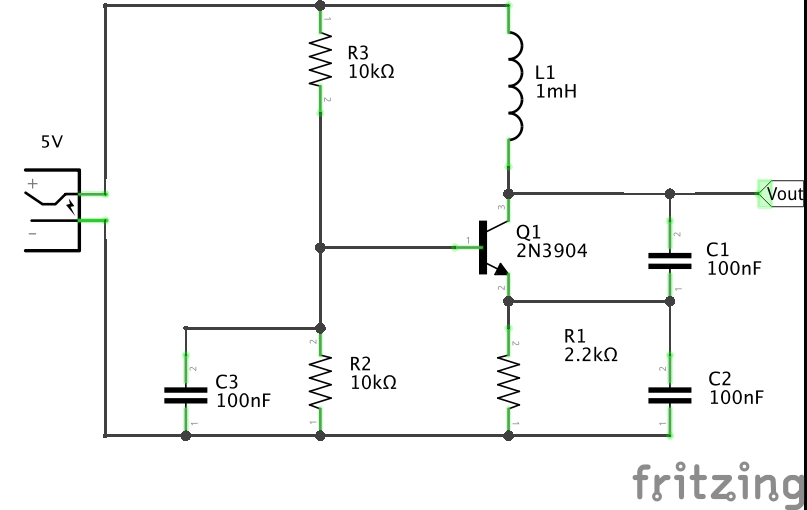
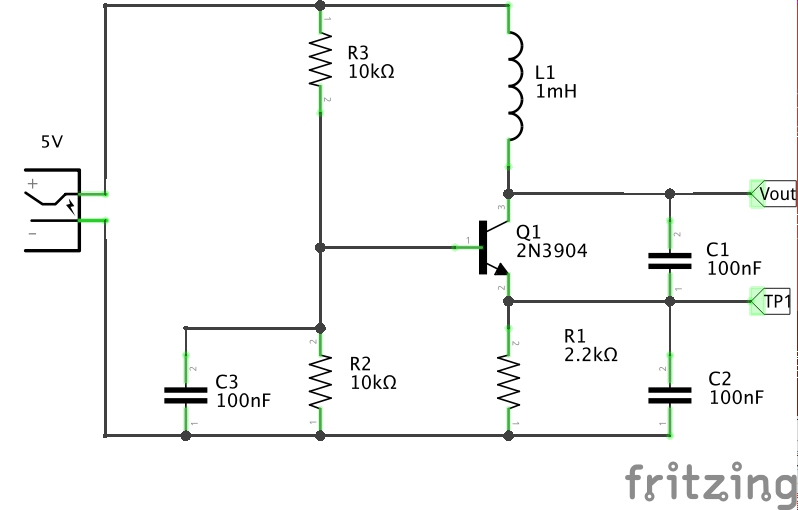
[ColpittsOscillator] add protoboard build

diff --git a/Electronics101/ColpittsOscillator/README.md b/Electronics101/ColpittsOscillator/README.md
@@ -13,9 +13,31 @@ is taken from the midpoint of the two capacitors.
 With C1,C2=100nF and L1=1mH, I should expect oscillation at around
 [22.5kHz](http://www.wolframalpha.com/input/?i=1%2F%282%CF%80+*sqrt%281mH+*+100nF+*+100nF%2F%28100nF+%2B+100nF%29%29%29), however on my first breadboard build I'm getting around 33kHz:
 
-![scope_1](./assets/scope_1.gif?raw=true)
+![breadboard_ac_coupled](./assets/breadboard_ac_coupled.gif?raw=true)
 
-So more experiements required .. I think next I'll put this on a protoboard and use some better quality capacitors.
+So more experiments required..
+
+### A Protoboard Build
+
+![Protoboard Build](./assets/ColpittsOscillator_protoboard.jpg?raw=true)
+
+Putting the circuit on a protoboard and using some better quality capacitors makes all the difference!
+
+I'm seeing an almost perfect 22.9kHz compared to the theoretical [22.5kHz](http://www.wolframalpha.com/input/?i=1%2F%282%CF%80+*sqrt%281mH+*+100nF+*+100nF%2F%28100nF+%2B+100nF%29%29%29).
+
+Here's an AC plot showing Vout on CH1, and TP1 on CH2. Some things to note:
+* there's distortion at the lower end of the Vout cycle; I suspect shifting the bias point of the transistor may help
+* an almost perfect sine at TP1 (midpoint of the capacitor bridge/transistor emitter)
+* 4.2V swing on Vout - not bad for a 5v supply
+* 2V swing on TP1
+
+![protoboard_ac_coupled](./assets/protoboard_ac_coupled.gif?raw=true)
+
+Here's the DC-coupled plot, with both channels shifted down -5V
+* Vout is oscillating around 5V
+* TP1 oscillates ~2.8V
+
+![protoboard_dc_coupled](./assets/protoboard_dc_coupled.gif?raw=true)
 
 ## Construction
 
@@ -23,7 +45,9 @@ So more experiements required .. I think next I'll put this on a protoboard and 
 
 ![The Schematic](./assets/ColpittsOscillator_schematic.jpg?raw=true)
 
-![The Build](./assets/ColpittsOscillator_build.jpg?raw=true)
+![Breadboard Build](./assets/ColpittsOscillator_build.jpg?raw=true)
+
+![Protoboard Build](./assets/ColpittsOscillator_protoboard.jpg?raw=true)
 
 ## Credits and References
 * [Colpitts Oscillator](https://en.wikipedia.org/wiki/Colpitts_oscillator) - wikipedia
